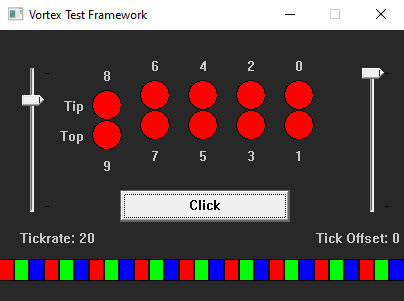
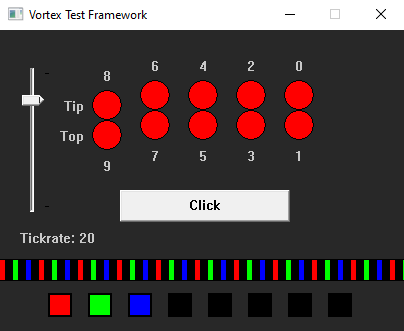
Added arduino serial updated screenshot other stuff

diff --git a/VortexTestingFramework/TestFramework.cpp b/VortexTestingFramework/TestFramework.cpp
@@ -8,6 +8,7 @@
 #include <ctime>
 
 #include "TestFramework.h"
+#include "ArduinoSerial.h"
 #include "Arduino.h"
 
 #include "Log.h"
@@ -38,6 +39,7 @@ using namespace std;
 #define CLICK_BUTTON_ID 10001
 #define TICKRATE_SLIDER_ID 10002
 #define TIME_OFFSET_SLIDER_ID 10003
+#define LOAD_BUTTON_ID 10004
 
 TestFramework::TestFramework() :
   m_loopThread(nullptr),
@@ -164,15 +166,9 @@ void TestFramework::create(HWND hwnd)
   //  WS_VISIBLE | WS_CHILD | WS_TABSTOP | TBS_VERT,
   //  360, 30, 36, 160, hwnd, (HMENU)TIME_OFFSET_SLIDER_ID, nullptr, nullptr);
 
-  // do the arduino init/setup
-  arduino_setup();
-
-  TrackBar_SetPos(m_hwndTickrateSlider, 20);
-  //TrackBar_SetPos(m_hwndTickOffsetSlider, 0);
-
-  // init tickrate and time offset to match the sliders
-  setTickrate();
-  //setTickOffset();
+  //m_hwndLoadButton = CreateWindow(WC_BUTTON, "+",
+  //  WS_VISIBLE | WS_CHILD | BS_DEFPUSHBUTTON | WS_TABSTOP,
+  //  5, 5, 22, 22, hwnd, (HMENU)LOAD_BUTTON_ID, nullptr, nullptr);
 }
 
 void TestFramework::command(WPARAM wParam, LPARAM lParam)
@@ -182,10 +178,28 @@ void TestFramework::command(WPARAM wParam, LPARAM lParam)
   }
 
   // ignore commands for other things
-  if (LOWORD(wParam) != CLICK_BUTTON_ID) {
+  if (LOWORD(wParam) != LOAD_BUTTON_ID) {
     return;
   }
 
+  // DO LOAD
+  INFO_LOG("== LOADING FROM GLOVESET ==");
+
+  ArduinoSerial sp;
+  sp.connect("\\\\.\\COM8");
+
+  if (sp.IsConnected()) {
+    printf("We're connected\n");
+  }
+
+  uint8_t buf[8192] = {0};
+  //printf("%s\n",incomingData);
+  uint32_t dataLength = 0;
+  int rv = 0;
+  rv = sp.ReadData(&dataLength, sizeof(dataLength));
+  printf("Read %d length: %u\n", rv, dataLength);
+  rv = sp.ReadData(buf, dataLength);
+  printf("read: %d\n", rv);
 }
 
 void TestFramework::paint(HWND hwnd)
@@ -265,19 +279,46 @@ void TestFramework::paint(HWND hwnd)
     FillRect(hdc, &backPos, getBrushCol(0));
     for (uint32_t i = 0; i < m_patternStrip.size(); ++i) {
       RECT stripPos = { (LONG)i, 230, (LONG)i + 1, 250 };
-      FillRect(hdc, &stripPos, getBrushCol(m_patternStrip[i]));
+      RGBColor col = m_patternStrip[i];
+      HSVColor hsvCol = col;
+      uint32_t val = hsvCol.val;
+      // if drawing a color with non full value
+      if (!col.empty() && val < 255) {
+        // fill black background
+        FillRect(hdc, &stripPos, getBrushCol(0));
+        // adjust the size of the bar based on value
+        uint32_t offset = (uint32_t)(5 - ((val / 255.0) * 5));
+        stripPos.top += offset;
+        stripPos.bottom -= offset;
+        // replace original color with full value color
+        hsvCol.val = 255;
+        col = hsvCol;
+      }
+      FillRect(hdc, &stripPos, getBrushCol(col));
     }
 
     const uint32_t border_size = 2;
     for (uint32_t i = 0; i < MAX_COLOR_SLOTS; ++i) {
-      RECT colPos = { 50 + (LONG)(i * 40), 265, 50 + (LONG)(i * 40) + 20, 285 };
+      RGBColor curCol = Modes::curMode()->getColorset()->get(i);
+      HSVColor hsvCol = curCol;
+      uint32_t val = hsvCol.val;
+      if (!curCol.empty()) {
+        hsvCol.val = 255;
+      }
+      curCol = hsvCol;
+      uint32_t offset = (uint32_t)(5 - ((val / 255.0) * 5));
+      RECT colPos = { 50 + (LONG)(i * 40) , 265, 50 + (LONG)(i * 40) + 20, 285 };
       RECT bordPos = colPos;
+      colPos.left += offset;
+      colPos.top += offset;
+      colPos.right -= offset;
+      colPos.bottom -= offset;
       bordPos.left -= border_size;
       bordPos.top -= border_size;
       bordPos.bottom += border_size;
       bordPos.right += border_size;
       FillRect(hdc, &bordPos, getBrushCol(RGB_OFF));
-      FillRect(hdc, &colPos, getBrushCol(Modes::curMode()->getColorset()->get(i)));
+      FillRect(hdc, &colPos, getBrushCol(curCol));
     }
   }
 
@@ -550,6 +591,13 @@ HBRUSH TestFramework::getBrushCol(RGBColor rgbcol)
 DWORD __stdcall TestFramework::arduino_loop_thread(void *arg)
 {
   TestFramework *framework = (TestFramework *)arg;
+  // do the arduino init/setup
+  framework->arduino_setup();
+  TrackBar_SetPos(framework->m_hwndTickrateSlider, 20);
+  //TrackBar_SetPos(m_hwndTickOffsetSlider, 0);
+  // init tickrate and time offset to match the sliders
+  framework->setTickrate();
+  //setTickOffset();
   while (framework->m_initialized && framework->m_keepGoing) {
     DWORD dwWaitResult = WaitForSingleObject(framework->m_pauseMutex, INFINITE);  // no time-out interval
     if (dwWaitResult == WAIT_OBJECT_0) {

diff --git a/VortexTestingFramework/ArduinoSerial.cpp b/VortexTestingFramework/ArduinoSerial.cpp
@@ -1,0 +1,134 @@
+#include "ArduinoSerial.h"
+
+#define ARDUINO_WAIT_TIME 2000
+
+using namespace std;
+
+ArduinoSerial::ArduinoSerial() :
+  m_port(),
+  m_hSerial(nullptr),
+  m_connected(false),
+  m_status(),
+  m_errors(0)
+{
+}
+
+ArduinoSerial::ArduinoSerial(const string &portName) :
+  ArduinoSerial()
+{
+  connect(portName);
+}
+
+bool ArduinoSerial::connect(const string &portName)
+{
+  m_port = portName;
+  // We're not yet connected
+  m_connected = false;
+
+  // Try to connect to the given port throuh CreateFile
+  m_hSerial = CreateFile(m_port.c_str(),
+    GENERIC_READ | GENERIC_WRITE,
+    0,
+    NULL,
+    OPEN_EXISTING,
+    FILE_ATTRIBUTE_NORMAL,
+    NULL);
+
+  // Check if the connection was successfull
+  if (m_hSerial == INVALID_HANDLE_VALUE) {
+    // If not success full display an Error
+    int err = GetLastError();
+    if (err == ERROR_FILE_NOT_FOUND) {
+      printf("ERROR: Handle was not attached. Reason: %s not available.\n", m_port.c_str());
+    } else {
+      printf("ERROR: %u\n", err);
+    }
+    return false;
+  }
+  // If connected we try to set the comm parameters
+  DCB dcbSerialParams = { 0 };
+
+  // Try to get the current
+  if (!GetCommState(m_hSerial, &dcbSerialParams)) {
+    // If impossible, show an error
+    printf("failed to get current serial parameters!");
+    return false;
+  }
+  // Define serial connection parameters for the arduino board
+  dcbSerialParams.BaudRate = CBR_9600;
+  dcbSerialParams.ByteSize = 8;
+  dcbSerialParams.StopBits = ONESTOPBIT;
+  dcbSerialParams.Parity = NOPARITY;
+  // Setting the DTR to Control_Enable ensures that the Arduino is properly
+  // reset upon establishing a connection
+  dcbSerialParams.fDtrControl = DTR_CONTROL_ENABLE;
+
+  // Set the parameters and check for their proper application
+  if (!SetCommState(m_hSerial, &dcbSerialParams)) {
+    printf("ALERT: Could not set Serial Port parameters");
+    return false;
+  }
+  // If everything went fine we're connected
+  m_connected = true;
+  // Flush any remaining characters in the buffers 
+  PurgeComm(m_hSerial, PURGE_RXCLEAR | PURGE_TXCLEAR);
+  // We wait 2s as the arduino board will be reseting
+  Sleep(ARDUINO_WAIT_TIME);
+  return true;
+}
+
+ArduinoSerial::~ArduinoSerial()
+{
+  // Check if we are connected before trying to disconnect
+  if (m_connected) {
+    // We're no longer connected
+    m_connected = false;
+    // Close the serial handler
+    CloseHandle(m_hSerial);
+    m_hSerial = nullptr;
+  }
+}
+
+int ArduinoSerial::ReadData(void *buffer, unsigned int nbChar)
+{
+  // Number of bytes we'll have read
+  DWORD bytesRead;
+  // Number of bytes we'll really ask to read
+  unsigned int toRead;
+
+  // Use the ClearCommError function to get status info on the Serial port
+  ClearCommError(m_hSerial, &m_errors, &m_status);
+
+  // Check if there is something to read
+  if (m_status.cbInQue > 0) {
+    // If there is we check if there is enough data to read the required number
+    // of characters, if not we'll read only the available characters to prevent
+    // locking of the application.
+    if (m_status.cbInQue > nbChar) {
+      toRead = nbChar;
+    } else {
+      toRead = m_status.cbInQue;
+    }
+
+    // Try to read the require number of chars, and return the number of read bytes on success
+    if (ReadFile(m_hSerial, buffer, toRead, &bytesRead, NULL)) {
+      return bytesRead;
+    }
+  }
+
+  // If nothing has been read, or that an error was detected return 0
+  return 0;
+}
+
+bool ArduinoSerial::WriteData(const void *buffer, unsigned int nbChar)
+{
+  DWORD bytesSend;
+
+  // Try to write the buffer on the Serial port
+  if (!WriteFile(m_hSerial, buffer, nbChar, &bytesSend, 0)) {
+    // In case it don't work get comm error and return false
+    ClearCommError(m_hSerial, &m_errors, &m_status);
+    return false;
+  }
+  return true;
+}

diff --git a/VortexTestingFramework/ArduinoSerial.h b/VortexTestingFramework/ArduinoSerial.h
@@ -1,0 +1,36 @@
+#pragma once
+
+#include <windows.h>
+#include <string>
+
+class ArduinoSerial
+{
+public:
+  ArduinoSerial();
+  // Initialize Serial communication with the given COM port
+  ArduinoSerial(const std::string &portName);
+  // Close the connection
+  ~ArduinoSerial();
+
+  bool connect(const std::string &portName);
+
+  // Read data in a buffer, if nbChar is greater than the
+  // maximum number of bytes available, it will return only the
+  // bytes available. The function return -1 when nothing could
+  // be read, the number of bytes actually read.
+  int ReadData(void *buffer, unsigned int nbChar);
+
+  // Writes data from a buffer through the Serial connection
+  // return true on success.
+  bool WriteData(const void *buffer, unsigned int nbChar);
+
+  // Check if we are actually connected
+  bool IsConnected() const { return m_connected; }
+
+private:
+  std::string m_port;
+  HANDLE m_hSerial;
+  bool m_connected;
+  COMSTAT m_status;
+  DWORD m_errors;
+};

diff --git a/VortexTestingFramework/Arduino.cpp b/VortexTestingFramework/Arduino.cpp
@@ -76,7 +76,7 @@ void delayMicroseconds(size_t us)
 // used for seeding randomSeed()
 unsigned long analogRead(uint32_t pin)
 {
-  return rand();
+  return 0;
 }
 
 // used to read button input
@@ -118,7 +118,7 @@ unsigned long millis()
   uint64_t ms = SEC_TO_MS((uint64_t)ts.tv_sec) + NS_TO_MS((uint64_t)ts.tv_nsec);
   return (unsigned long)ms;
 #else
-  return GetTickCount();
+  return (unsigned long)GetTickCount();
 #endif
 }
 
@@ -139,12 +139,13 @@ unsigned long micros()
 
 unsigned long random(uint32_t low, uint32_t high)
 {
-  return low + (rand() % high);
+  return low + (rand() % (high - low));
 }
+
 
 void randomSeed(uint32_t seed)
 {
-  srand(seed);
+  srand((uint32_t)GetTickCount() ^ (uint32_t)GetCurrentProcessId());
 }
 
 void pinMode(uint32_t pin, uint32_t mode)

diff --git a/VortexTestingFramework/Arduino.h b/VortexTestingFramework/Arduino.h
@@ -27,7 +27,9 @@ void digitalWrite(uint32_t pin,  uint32_t val);
 unsigned long millis();
 unsigned long micros();
 unsigned long nanos();
-unsigned long random(uint32_t low = 0, uint32_t high = 0);
+// generate random number from low (inclusive) to high (exclusive)
+unsigned long random(uint32_t low, uint32_t high);
+unsigned long random(uint32_t high);
 void randomSeed(uint32_t seed);
 void pinMode(uint32_t pin, uint32_t mode);
 

diff --git a/VortexTestingFramework/TestFramework.h b/VortexTestingFramework/TestFramework.h
@@ -96,6 +96,7 @@ private:
   HWND m_hwndClickButton;
   HWND m_hwndTickrateSlider;
   HWND m_hwndTickOffsetSlider;
+  HWND m_hwndLoadButton;
 
   HWND m_hwnd;
   WNDCLASS m_wc;
